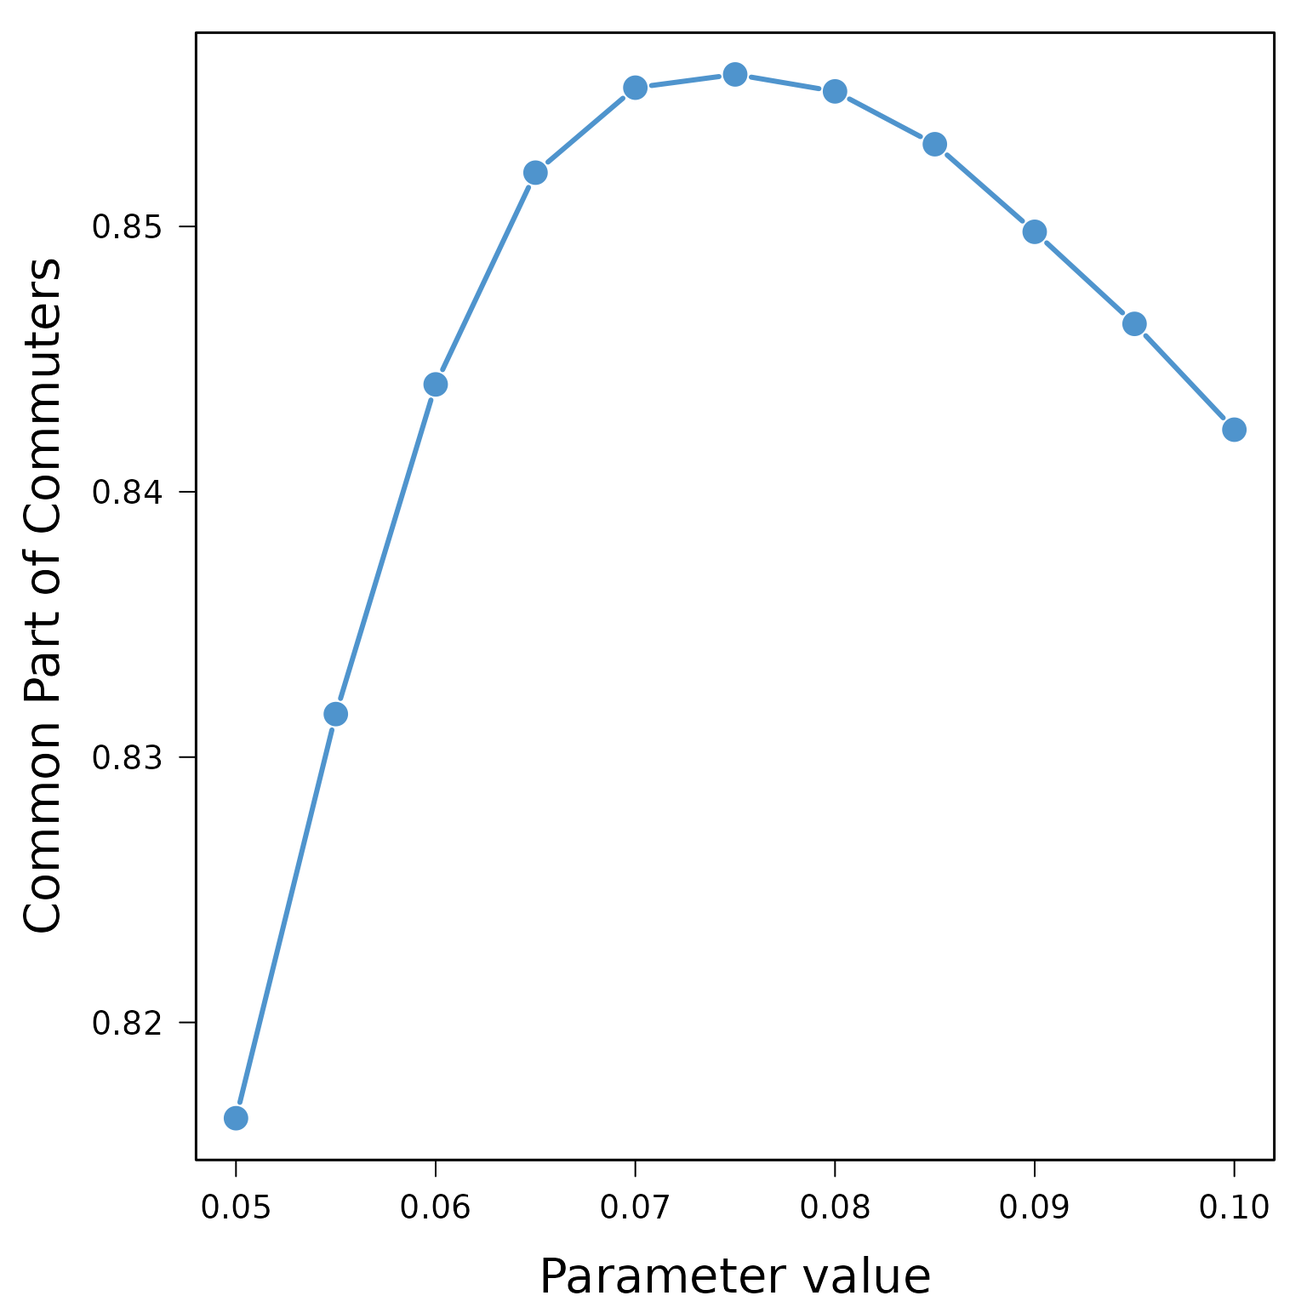
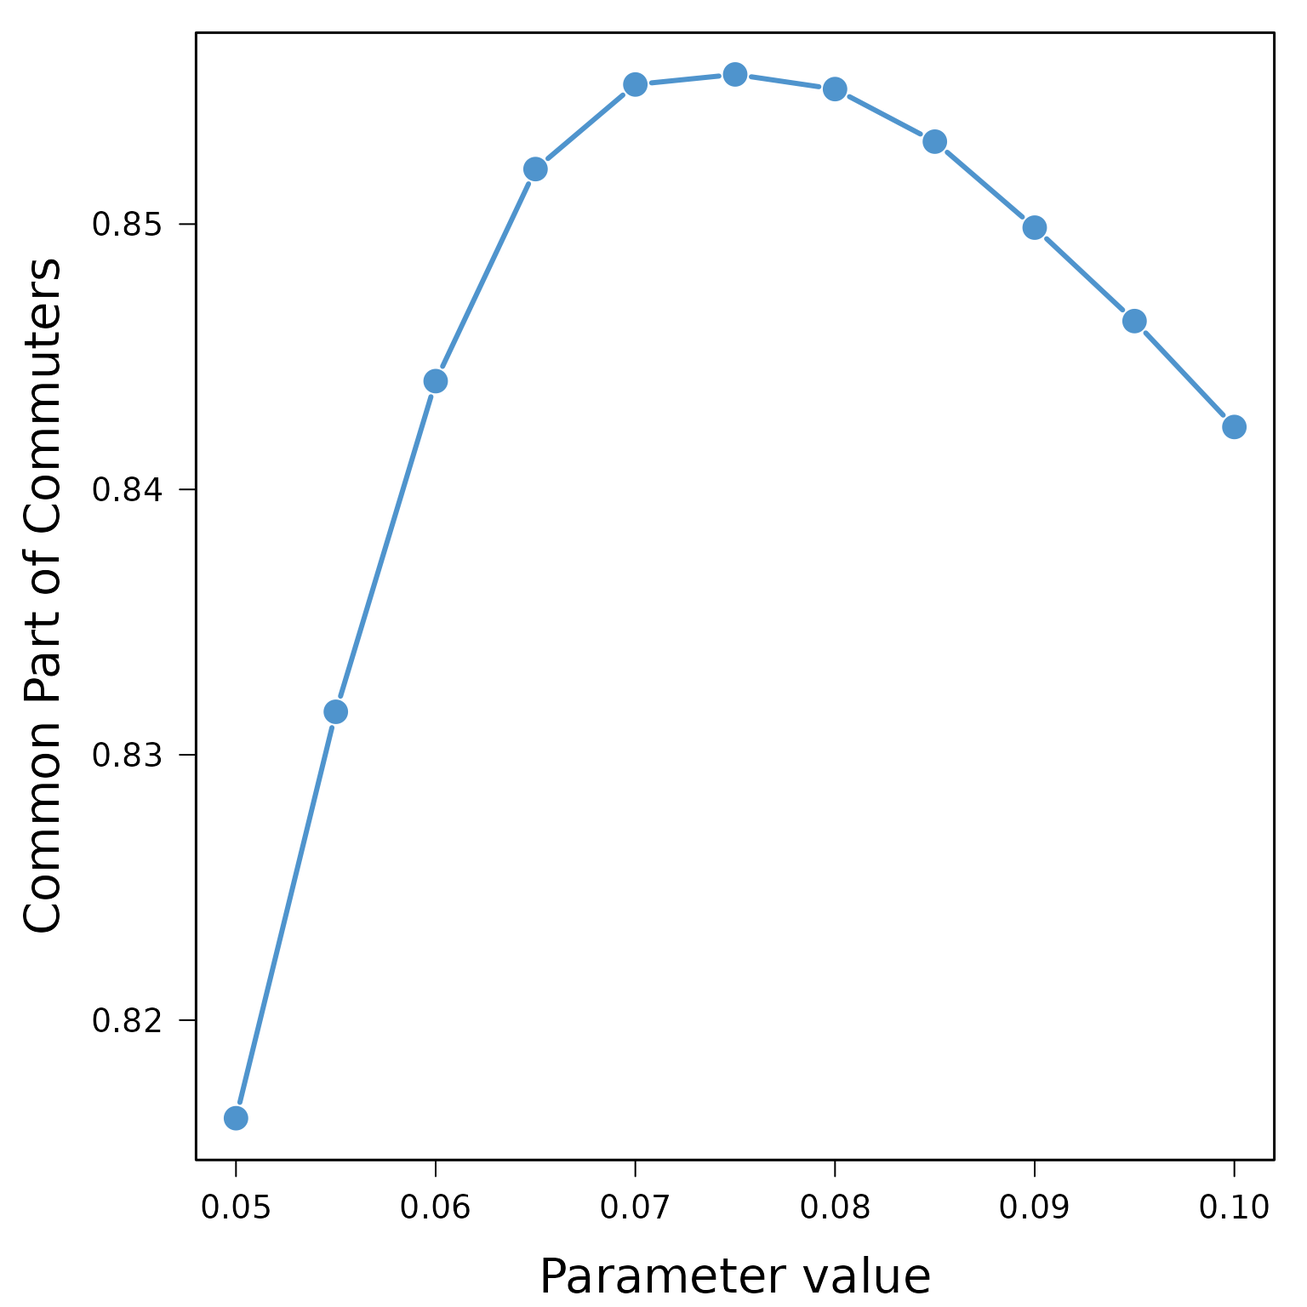
Built site for TDLM: 0.1.0@c75c57d

diff --git a/articles/TDLM.html b/articles/TDLM.html
@@ -506,11 +506,11 @@ contain a table <code>info</code> summarizing the simulation run.</p>
 <span><span class="co">##  $ info         :'data.frame':   5 obs. of  2 variables:</span></span>
 <span><span class="co">##   ..$ Argument: chr [1:5] "Law" "Model" "#Replications" "#Parameters" ...</span></span>
 <span><span class="co">##   ..$ Value   : chr [1:5] "NGravExp" "DCM" "3" "1" ...</span></span>
-<span><span class="co">##  $ replication_1: num [1:105, 1:105] 0 23 4 0 2 15 5 101 5 7 ...</span></span>
+<span><span class="co">##  $ replication_1: num [1:105, 1:105] 0 24 4 0 2 15 4 102 5 6 ...</span></span>
 <span><span class="co">##   ..- attr(*, "dimnames")=List of 2</span></span>
-<span><span class="co">##  $ replication_2: num [1:105, 1:105] 0 23 4 0 2 15 5 102 5 6 ...</span></span>
+<span><span class="co">##  $ replication_2: num [1:105, 1:105] 0 24 4 0 2 16 4 108 5 7 ...</span></span>
 <span><span class="co">##   ..- attr(*, "dimnames")=List of 2</span></span>
-<span><span class="co">##  $ replication_3: num [1:105, 1:105] 0 23 4 0 2 15 4 103 5 6 ...</span></span>
+<span><span class="co">##  $ replication_3: num [1:105, 1:105] 0 23 4 0 3 15 4 105 5 6 ...</span></span>
 <span><span class="co">##   ..- attr(*, "dimnames")=List of 2</span></span>
 <span><span class="co">##  $ proba        : num [1:105, 1:105] 0.00 4.31e-05 2.16e-05 3.90e-06 1.81e-05 ...</span></span>
 <span><span class="co">##   ..- attr(*, "dimnames")=List of 2</span></span>
@@ -553,20 +553,20 @@ each parameter value).</p>
 <span><span class="co">##   ..$ Argument: chr [1:6] "Law" "Model" "#Replications" "#Parameters" ...</span></span>
 <span><span class="co">##   ..$ Value   : chr [1:6] "NGravExp" "DCM" "3" "2" ...</span></span>
 <span><span class="co">##  $ parameter_1:List of 4</span></span>
-<span><span class="co">##   ..$ replication_1: num [1:105, 1:105] 0 23 4 0 2 16 4 101 5 6 ...</span></span>
+<span><span class="co">##   ..$ replication_1: num [1:105, 1:105] 0 25 4 0 2 15 4 101 5 6 ...</span></span>
 <span><span class="co">##   .. ..- attr(*, "dimnames")=List of 2</span></span>
-<span><span class="co">##   ..$ replication_2: num [1:105, 1:105] 0 24 4 0 2 15 4 102 5 6 ...</span></span>
+<span><span class="co">##   ..$ replication_2: num [1:105, 1:105] 0 26 4 0 2 16 4 104 5 6 ...</span></span>
 <span><span class="co">##   .. ..- attr(*, "dimnames")=List of 2</span></span>
-<span><span class="co">##   ..$ replication_3: num [1:105, 1:105] 0 24 4 0 2 15 4 104 5 6 ...</span></span>
+<span><span class="co">##   ..$ replication_3: num [1:105, 1:105] 0 23 4 0 2 15 4 104 6 7 ...</span></span>
 <span><span class="co">##   .. ..- attr(*, "dimnames")=List of 2</span></span>
 <span><span class="co">##   ..$ proba        : num [1:105, 1:105] 0.00 4.31e-05 2.16e-05 3.90e-06 1.81e-05 ...</span></span>
 <span><span class="co">##   .. ..- attr(*, "dimnames")=List of 2</span></span>
 <span><span class="co">##  $ parameter_2:List of 4</span></span>
-<span><span class="co">##   ..$ replication_1: num [1:105, 1:105] 0 55 2 0 0 39 1 76 5 7 ...</span></span>
+<span><span class="co">##   ..$ replication_1: num [1:105, 1:105] 0 54 2 0 0 39 1 77 5 7 ...</span></span>
 <span><span class="co">##   .. ..- attr(*, "dimnames")=List of 2</span></span>
-<span><span class="co">##   ..$ replication_2: num [1:105, 1:105] 0 54 2 0 0 41 1 77 5 7 ...</span></span>
+<span><span class="co">##   ..$ replication_2: num [1:105, 1:105] 0 53 2 0 0 38 1 77 6 7 ...</span></span>
 <span><span class="co">##   .. ..- attr(*, "dimnames")=List of 2</span></span>
-<span><span class="co">##   ..$ replication_3: num [1:105, 1:105] 0 53 2 0 0 40 1 76 5 7 ...</span></span>
+<span><span class="co">##   ..$ replication_3: num [1:105, 1:105] 0 53 2 0 0 40 1 78 5 7 ...</span></span>
 <span><span class="co">##   .. ..- attr(*, "dimnames")=List of 2</span></span>
 <span><span class="co">##   ..$ proba        : num [1:105, 1:105] 0.00 8.13e-05 8.17e-06 7.10e-07 3.16e-06 ...</span></span>
 <span><span class="co">##   .. ..- attr(*, "dimnames")=List of 2</span></span>
@@ -605,13 +605,13 @@ case) will be a matrix of positive real numbers.</p>
 <code class="sourceCode R"><span><span class="va">res</span><span class="op">$</span><span class="va">replication_1</span><span class="op">[</span><span class="fl">1</span><span class="op">:</span><span class="fl">10</span>,<span class="fl">1</span><span class="op">:</span><span class="fl">10</span><span class="op">]</span></span></code></pre></div>
 <pre><code><span><span class="co">##       [,1] [,2] [,3] [,4] [,5] [,6] [,7] [,8] [,9] [,10]</span></span>
 <span><span class="co">##  [1,]    0   32    0    0    0  121    0    1    0     0</span></span>
-<span><span class="co">##  [2,]  573    0    0    0    0   22    0    0    0     0</span></span>
-<span><span class="co">##  [3,]    0    0    0    0    0    0  197    0    0     0</span></span>
+<span><span class="co">##  [2,]  567    0    0    0    0   22    0    0    0     0</span></span>
+<span><span class="co">##  [3,]    0    0    0    0    0    0  198    0    0     0</span></span>
 <span><span class="co">##  [4,]    0    0    0    0    0    0    0    0    0     0</span></span>
 <span><span class="co">##  [5,]    0    0    0    1    0    0    0    3    0     0</span></span>
 <span><span class="co">##  [6,]   17    2    0    0    0    0    0    0    0     0</span></span>
-<span><span class="co">##  [7,]    0    0  202    0    0    0    0    0    0     0</span></span>
-<span><span class="co">##  [8,]    4    1    1    1   10    5    1    0    0     1</span></span>
+<span><span class="co">##  [7,]    0    0  201    0    0    0    0    0    0     0</span></span>
+<span><span class="co">##  [8,]    4    1    1    1   11    5    1    0    0     1</span></span>
 <span><span class="co">##  [9,]    0    0    0    0    0    0    0   39    0     0</span></span>
 <span><span class="co">## [10,]    0    0    0    0    0    0    0   13    0     0</span></span></code></pre>
 <div class="sourceCode" id="cb39"><pre class="downlit sourceCode r">
@@ -715,73 +715,73 @@ goodness-of-fit measure for a wide range of parameter values.</p>
 <span></span>
 <span><span class="fu"><a href="https://rdrr.io/r/base/print.html" class="external-link">print</a></span><span class="op">(</span><span class="va">calib</span><span class="op">)</span></span></code></pre></div>
 <pre><code><span><span class="co">##       Parameter Parameter_value    Simulation       CPC     NRMSE         KL</span></span>
-<span><span class="co">## 1   parameter_1            0.05 replication_1 0.8163436 10.520461 0.12973651</span></span>
-<span><span class="co">## 2   parameter_1            0.05 replication_2 0.8163686 10.521785 0.12969137</span></span>
-<span><span class="co">## 3   parameter_1            0.05 replication_3 0.8164584 10.516304 0.12940020</span></span>
-<span><span class="co">## 4   parameter_2           0.055 replication_1 0.8316671  9.413925 0.11322708</span></span>
-<span><span class="co">## 5   parameter_2           0.055 replication_2 0.8316122  9.409204 0.11345663</span></span>
-<span><span class="co">## 6   parameter_2           0.055 replication_3 0.8315872  9.414277 0.11336432</span></span>
-<span><span class="co">## 7   parameter_3            0.06 replication_1 0.8439757  8.653240 0.09829586</span></span>
-<span><span class="co">## 8   parameter_3            0.06 replication_2 0.8441554  8.629461 0.09829215</span></span>
-<span><span class="co">## 9   parameter_3            0.06 replication_3 0.8440106  8.640835 0.09823876</span></span>
-<span><span class="co">## 10  parameter_4           0.065 replication_1 0.8520916  8.169447 0.08769458</span></span>
-<span><span class="co">## 11  parameter_4           0.065 replication_2 0.8519918  8.170035 0.08802490</span></span>
-<span><span class="co">## 12  parameter_4           0.065 replication_3 0.8520018  8.175690 0.08767543</span></span>
-<span><span class="co">## 13  parameter_5            0.07 replication_1 0.8552561  7.959901 0.08022216</span></span>
-<span><span class="co">## 14  parameter_5            0.07 replication_2 0.8553110  7.956841 0.08026589</span></span>
-<span><span class="co">## 15  parameter_5            0.07 replication_3 0.8551264  7.979323 0.08028785</span></span>
-<span><span class="co">## 16  parameter_6           0.075 replication_1 0.8555706  7.972986 0.07932064</span></span>
-<span><span class="co">## 17  parameter_6           0.075 replication_2 0.8557902  7.950323 0.07917437</span></span>
-<span><span class="co">## 18  parameter_6           0.075 replication_3 0.8558301  7.949392 0.07917060</span></span>
-<span><span class="co">## 19  parameter_7            0.08 replication_1 0.8550465  8.121351 0.07433096</span></span>
-<span><span class="co">## 20  parameter_7            0.08 replication_2 0.8551363  8.109589 0.07425769</span></span>
-<span><span class="co">## 21  parameter_7            0.08 replication_3 0.8550914  8.104180 0.07431358</span></span>
-<span><span class="co">## 22  parameter_8           0.085 replication_1 0.8530849  8.384090 0.07390047</span></span>
-<span><span class="co">## 23  parameter_8           0.085 replication_2 0.8531548  8.372894 0.07375031</span></span>
-<span><span class="co">## 24  parameter_8           0.085 replication_3 0.8530599  8.379965 0.07406730</span></span>
-<span><span class="co">## 25  parameter_9            0.09 replication_1 0.8498206  8.711605 0.07529775</span></span>
-<span><span class="co">## 26  parameter_9            0.09 replication_2 0.8497856  8.714574 0.07506874</span></span>
-<span><span class="co">## 27  parameter_9            0.09 replication_3 0.8497906  8.719025 0.07520917</span></span>
-<span><span class="co">## 28 parameter_10           0.095 replication_1 0.8463965  9.089159 0.08100489</span></span>
-<span><span class="co">## 29 parameter_10           0.095 replication_2 0.8462767  9.093178 0.08097571</span></span>
-<span><span class="co">## 30 parameter_10           0.095 replication_3 0.8463116  9.083209 0.08090303</span></span>
-<span><span class="co">## 31 parameter_11             0.1 replication_1 0.8423336  9.494973 0.08354668</span></span>
-<span><span class="co">## 32 parameter_11             0.1 replication_2 0.8423435  9.485399 0.08340329</span></span>
-<span><span class="co">## 33 parameter_11             0.1 replication_3 0.8423435  9.480011 0.08348690</span></span>
+<span><span class="co">## 1   parameter_1            0.05 replication_1 0.8163037 10.516165 0.12945279</span></span>
+<span><span class="co">## 2   parameter_1            0.05 replication_2 0.8161839 10.523734 0.12978436</span></span>
+<span><span class="co">## 3   parameter_1            0.05 replication_3 0.8164235 10.514301 0.12938662</span></span>
+<span><span class="co">## 4   parameter_2           0.055 replication_1 0.8316621  9.424458 0.11311412</span></span>
+<span><span class="co">## 5   parameter_2           0.055 replication_2 0.8315772  9.411813 0.11326432</span></span>
+<span><span class="co">## 6   parameter_2           0.055 replication_3 0.8316221  9.413024 0.11334592</span></span>
+<span><span class="co">## 7   parameter_3            0.06 replication_1 0.8440955  8.640758 0.09815967</span></span>
+<span><span class="co">## 8   parameter_3            0.06 replication_2 0.8441254  8.638142 0.09801975</span></span>
+<span><span class="co">## 9   parameter_3            0.06 replication_3 0.8440256  8.643982 0.09826664</span></span>
+<span><span class="co">## 10  parameter_4           0.065 replication_1 0.8521415  8.177168 0.08782202</span></span>
+<span><span class="co">## 11  parameter_4           0.065 replication_2 0.8520267  8.174342 0.08803971</span></span>
+<span><span class="co">## 12  parameter_4           0.065 replication_3 0.8520517  8.178097 0.08782012</span></span>
+<span><span class="co">## 13  parameter_5            0.07 replication_1 0.8552362  7.953101 0.08032767</span></span>
+<span><span class="co">## 14  parameter_5            0.07 replication_2 0.8552861  7.963720 0.08016111</span></span>
+<span><span class="co">## 15  parameter_5            0.07 replication_3 0.8552611  7.954859 0.08028030</span></span>
+<span><span class="co">## 16  parameter_6           0.075 replication_1 0.8556355  7.960020 0.07926927</span></span>
+<span><span class="co">## 17  parameter_6           0.075 replication_2 0.8555606  7.969641 0.07935176</span></span>
+<span><span class="co">## 18  parameter_6           0.075 replication_3 0.8557253  7.951452 0.07935030</span></span>
+<span><span class="co">## 19  parameter_7            0.08 replication_1 0.8550116  8.113738 0.07428569</span></span>
+<span><span class="co">## 20  parameter_7            0.08 replication_2 0.8551613  8.112430 0.07430373</span></span>
+<span><span class="co">## 21  parameter_7            0.08 replication_3 0.8550914  8.115504 0.07431591</span></span>
+<span><span class="co">## 22  parameter_8           0.085 replication_1 0.8531448  8.371736 0.07378546</span></span>
+<span><span class="co">## 23  parameter_8           0.085 replication_2 0.8530799  8.380242 0.07385169</span></span>
+<span><span class="co">## 24  parameter_8           0.085 replication_3 0.8530999  8.380962 0.07386918</span></span>
+<span><span class="co">## 25  parameter_9            0.09 replication_1 0.8498555  8.710992 0.07519045</span></span>
+<span><span class="co">## 26  parameter_9            0.09 replication_2 0.8497756  8.714242 0.07527667</span></span>
+<span><span class="co">## 27  parameter_9            0.09 replication_3 0.8499703  8.699353 0.07510268</span></span>
+<span><span class="co">## 28 parameter_10           0.095 replication_1 0.8462917  9.085519 0.08091026</span></span>
+<span><span class="co">## 29 parameter_10           0.095 replication_2 0.8464364  9.079672 0.08088331</span></span>
+<span><span class="co">## 30 parameter_10           0.095 replication_3 0.8463067  9.091629 0.08087695</span></span>
+<span><span class="co">## 31 parameter_11             0.1 replication_1 0.8422687  9.491315 0.08336512</span></span>
+<span><span class="co">## 32 parameter_11             0.1 replication_2 0.8423535  9.486964 0.08347907</span></span>
+<span><span class="co">## 33 parameter_11             0.1 replication_3 0.8424384  9.475036 0.08341418</span></span>
 <span><span class="co">##          CPL     CPC_d    KS_stat   KS_pval</span></span>
-<span><span class="co">## 1  0.6597531 0.8953765 0.07300660 0.9998561</span></span>
-<span><span class="co">## 2  0.6592647 0.8953266 0.07301159 0.9998558</span></span>
-<span><span class="co">## 3  0.6595850 0.8954165 0.07307648 0.9998530</span></span>
-<span><span class="co">## 4  0.6718628 0.9156563 0.04994162 1.0000000</span></span>
-<span><span class="co">## 5  0.6716922 0.9155166 0.04998155 1.0000000</span></span>
-<span><span class="co">## 6  0.6706494 0.9155216 0.05002647 1.0000000</span></span>
-<span><span class="co">## 7  0.6724324 0.9318183 0.03026575 1.0000000</span></span>
-<span><span class="co">## 8  0.6731496 0.9317784 0.03024579 1.0000000</span></span>
-<span><span class="co">## 9  0.6720692 0.9317734 0.03023581 1.0000000</span></span>
-<span><span class="co">## 10 0.6732394 0.9431387 0.03376468 1.0000000</span></span>
-<span><span class="co">## 11 0.6732339 0.9430937 0.03378964 1.0000000</span></span>
-<span><span class="co">## 12 0.6730498 0.9431337 0.03374472 1.0000000</span></span>
-<span><span class="co">## 13 0.6742623 0.9495525 0.03746327 1.0000000</span></span>
-<span><span class="co">## 14 0.6740654 0.9494577 0.03744829 1.0000000</span></span>
-<span><span class="co">## 15 0.6746495 0.9492680 0.03742334 1.0000000</span></span>
-<span><span class="co">## 16 0.6720916 0.9480551 0.04355270 1.0000000</span></span>
-<span><span class="co">## 17 0.6720867 0.9480451 0.04351776 1.0000000</span></span>
-<span><span class="co">## 18 0.6720916 0.9480152 0.04358764 1.0000000</span></span>
-<span><span class="co">## 19 0.6629492 0.9408027 0.04954231 1.0000000</span></span>
-<span><span class="co">## 20 0.6633633 0.9408177 0.04948740 1.0000000</span></span>
-<span><span class="co">## 21 0.6627439 0.9409075 0.04953233 1.0000000</span></span>
-<span><span class="co">## 22 0.6513849 0.9328265 0.05654516 1.0000000</span></span>
-<span><span class="co">## 23 0.6513849 0.9330212 0.05646530 1.0000000</span></span>
-<span><span class="co">## 24 0.6518141 0.9329863 0.05645032 1.0000000</span></span>
-<span><span class="co">## 25 0.6406504 0.9257039 0.06233511 0.9999993</span></span>
-<span><span class="co">## 26 0.6410923 0.9257139 0.06236007 0.9999993</span></span>
-<span><span class="co">## 27 0.6408588 0.9256141 0.06240000 0.9999993</span></span>
-<span><span class="co">## 28 0.6355202 0.9187659 0.06728652 0.9999941</span></span>
-<span><span class="co">## 29 0.6346472 0.9188009 0.06729151 0.9999941</span></span>
-<span><span class="co">## 30 0.6348575 0.9187959 0.06729651 0.9999941</span></span>
-<span><span class="co">## 31 0.6233503 0.9121774 0.07261727 0.9999622</span></span>
-<span><span class="co">## 32 0.6237724 0.9120925 0.07272209 0.9999609</span></span>
-<span><span class="co">## 33 0.6235613 0.9121574 0.07267218 0.9999614</span></span></code></pre>
+<span><span class="co">## 1  0.6589339 0.8954664 0.07298164 0.9998572</span></span>
+<span><span class="co">## 2  0.6597582 0.8951020 0.07325617 0.9998454</span></span>
+<span><span class="co">## 3  0.6597531 0.8952967 0.07315634 0.9998495</span></span>
+<span><span class="co">## 4  0.6706494 0.9155116 0.04999652 1.0000000</span></span>
+<span><span class="co">## 5  0.6709979 0.9155565 0.04994661 1.0000000</span></span>
+<span><span class="co">## 6  0.6711723 0.9155166 0.04994162 1.0000000</span></span>
+<span><span class="co">## 7  0.6717063 0.9319680 0.03026575 1.0000000</span></span>
+<span><span class="co">## 8  0.6727961 0.9319031 0.03029071 1.0000000</span></span>
+<span><span class="co">## 9  0.6722507 0.9317883 0.03022083 1.0000000</span></span>
+<span><span class="co">## 10 0.6726710 0.9431237 0.03374971 1.0000000</span></span>
+<span><span class="co">## 11 0.6730391 0.9429440 0.03376468 1.0000000</span></span>
+<span><span class="co">## 12 0.6726761 0.9429041 0.03376967 1.0000000</span></span>
+<span><span class="co">## 13 0.6744526 0.9495675 0.03746826 1.0000000</span></span>
+<span><span class="co">## 14 0.6748466 0.9495276 0.03743332 1.0000000</span></span>
+<span><span class="co">## 15 0.6740589 0.9495425 0.03744829 1.0000000</span></span>
+<span><span class="co">## 16 0.6724917 0.9480402 0.04357766 1.0000000</span></span>
+<span><span class="co">## 17 0.6722892 0.9479253 0.04357267 1.0000000</span></span>
+<span><span class="co">## 18 0.6722892 0.9480851 0.04357766 1.0000000</span></span>
+<span><span class="co">## 19 0.6629492 0.9408626 0.04949739 1.0000000</span></span>
+<span><span class="co">## 20 0.6631546 0.9408426 0.04949739 1.0000000</span></span>
+<span><span class="co">## 21 0.6629492 0.9408327 0.04948241 1.0000000</span></span>
+<span><span class="co">## 22 0.6505564 0.9330312 0.05649025 1.0000000</span></span>
+<span><span class="co">## 23 0.6509704 0.9330012 0.05648526 1.0000000</span></span>
+<span><span class="co">## 24 0.6511776 0.9329413 0.05653518 1.0000000</span></span>
+<span><span class="co">## 25 0.6408588 0.9257438 0.06234010 0.9999993</span></span>
+<span><span class="co">## 26 0.6406504 0.9257738 0.06234510 0.9999993</span></span>
+<span><span class="co">## 27 0.6408588 0.9257089 0.06238004 0.9999993</span></span>
+<span><span class="co">## 28 0.6348575 0.9186611 0.06728652 0.9999940</span></span>
+<span><span class="co">## 29 0.6348575 0.9187759 0.06727155 0.9999941</span></span>
+<span><span class="co">## 30 0.6346472 0.9186312 0.06724659 0.9999942</span></span>
+<span><span class="co">## 31 0.6235613 0.9120626 0.07274705 0.9999606</span></span>
+<span><span class="co">## 32 0.6247039 0.9120875 0.07271710 0.9999610</span></span>
+<span><span class="co">## 33 0.6240271 0.9122522 0.07252743 0.9999632</span></span></code></pre>
 <p>All the necessary information is stored in the object calib, most of
 the goodness-of-fit measures agree on a parameter value of 0.075 in that
 case with an associated average Common Part of Commuter equal to

diff --git a/index.html b/index.html
@@ -86,9 +86,13 @@
 <h2 id="id_1-install">1 Install<a class="anchor" aria-label="anchor" href="#id_1-install"></a>
 </h2>
 <p>The package <code>TDLM</code> can be installed with the following command line in R session:</p>
+<p>From the CRAN</p>
 <div class="sourceCode" id="cb1"><pre class="downlit sourceCode r">
+<code class="sourceCode R"><span><span class="fu"><a href="https://rdrr.io/r/utils/install.packages.html" class="external-link">install.packages</a></span><span class="op">(</span><span class="st">"TDLM"</span><span class="op">)</span></span></code></pre></div>
+<p>or from GitHub</p>
+<div class="sourceCode" id="cb2"><pre class="downlit sourceCode r">
 <code class="sourceCode R"><span><span class="co"># install.packages("devtools")</span></span>
-<span><span class="fu">devtools</span><span class="fu">::</span><span class="fu">install_github</span><span class="op">(</span><span class="st">"EpiVec/TDLM"</span><span class="op">)</span></span></code></pre></div>
+<span><span class="fu">devtools</span><span class="fu">::</span><span class="fu">install_github</span><span class="op">(</span><span class="st">"EpiVec/TDLM"</span>, build_vignettes <span class="op">=</span> <span class="cn">TRUE</span><span class="op">)</span></span></code></pre></div>
 </div>
 <div class="section level2">
 <h2 id="id_2-tutorial">2 Tutorial<a class="anchor" aria-label="anchor" href="#id_2-tutorial"></a>
@@ -141,7 +145,8 @@
 <div class="dev-status">
 <h2 data-toc-skip>Dev status</h2>
 <ul class="list-unstyled">
-<li><a href="https://github.com/EpiVec/TDLM/actions" class="external-link"><img src="https://github.com/EpiVec/TDLM/workflows/R-CMD-check/badge.svg" alt="R-CMD-check"></a></li>
+<li><a href="https://cran.r-project.org/package=TDLM" class="external-link"><img src="http://www.r-pkg.org/badges/version/TDLM" alt="CRAN_Status_Badge"></a></li>
+<li><a href="http://r-pkg.org/pkg/TDLM" class="external-link"><img src="http://cranlogs.r-pkg.org/badges/grand-total/TDLM" alt="rstudio mirror downloads"></a></li>
 <li><a href="https://github.com/EpiVec/TDLM" class="external-link"><img src="https://img.shields.io/github/v/release/EpiVec/TDLM?label=version&amp;style=flat&amp;logo=github" alt="version"></a></li>
 <li><a href="https://www.r-project.org/Licenses/GPL-3" class="external-link"><img src="https://img.shields.io/badge/Licence-GPL--3-blue.svg" alt="licence"></a></li>
 </ul>

diff --git a/reference/gof.html b/reference/gof.html
@@ -227,8 +227,8 @@ before running the main package's functions.</p>
 <span class="r-in"><span>  use_proba <span class="op">=</span> <span class="cn">FALSE</span>,</span></span>
 <span class="r-in"><span>  check_names <span class="op">=</span> <span class="cn">FALSE</span></span></span>
 <span class="r-in"><span><span class="op">)</span></span></span>
-<span class="r-out co"><span class="r-pr">#&gt;</span>      Simulation      CPC</span>
-<span class="r-out co"><span class="r-pr">#&gt;</span> 1 replication_1 0.457082</span>
+<span class="r-out co"><span class="r-pr">#&gt;</span>      Simulation       CPC</span>
+<span class="r-out co"><span class="r-pr">#&gt;</span> 1 replication_1 0.4573415</span>
 <span class="r-in"><span></span></span>
 <span class="r-in"><span></span></span>
 </code></pre></div>

diff --git a/news/index.html b/news/index.html
@@ -47,6 +47,10 @@
       <small>Source: <a href="https://github.com/EpiVec/TDLM/blob/HEAD/NEWS.md" class="external-link"><code>NEWS.md</code></a></small>
     </div>
 
+    <div class="section level2">
+<h2 class="pkg-version" data-toc-text="0.1.0" id="tdlm-v010">TDLM v0.1.0<a class="anchor" aria-label="anchor" href="#tdlm-v010"></a></h2><p class="text-muted">CRAN release: 2023-03-17</p>
+<p>First release on CRAN</p>
+</div>
   </main></div>
 
 
